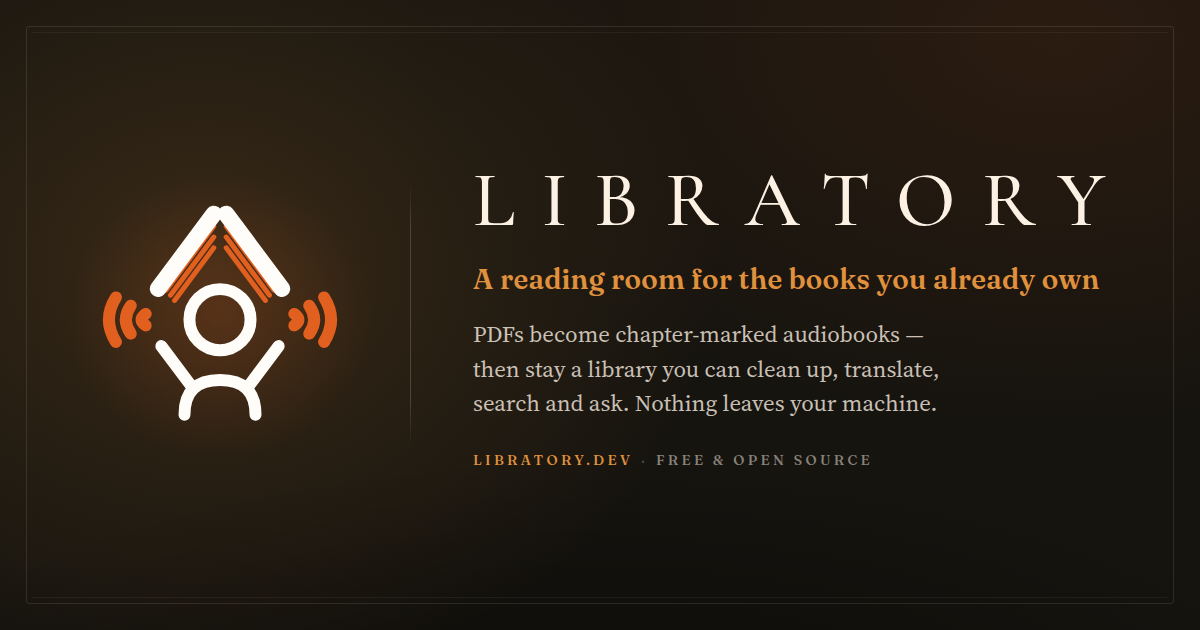
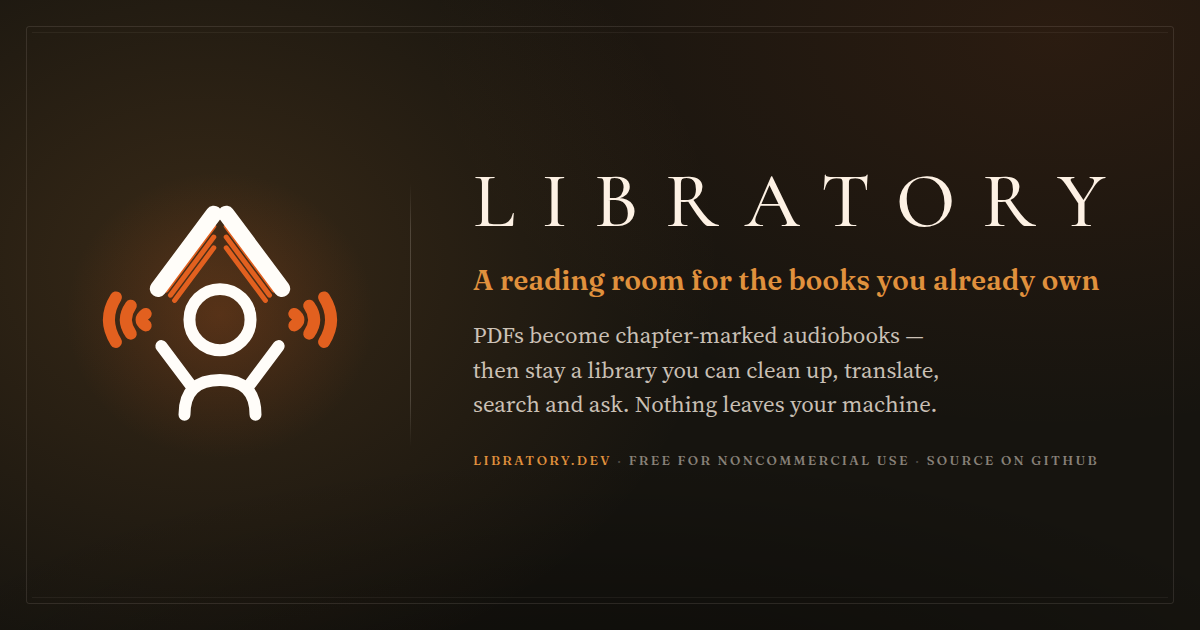
"Open source" was never true of a PolyForm licence
Libratory is PolyForm Noncommercial 1.0.0. That is source-available, not open source: the OSI
definition requires no restriction on the field of endeavour, and a noncommercial clause is
exactly such a restriction. Claiming the label invites the correction rather than the download,
and the projects on this licence — the ones that keep their goodwill — say what they actually
grant instead.

The page already had the right words on it. The hero reads "Free for noncommercial use · source
on GitHub" and the app's README says the source is public and you may use, modify and share it
for any noncommercial purpose. So the card and the meta descriptions now say the same thing,
rather than a fourth version of it.

The og:description carried "Free and open source" before any of this, so that one is a fix and
not a regression. It also loses about forty characters, which is roughly what Slack and iMessage
were cutting off anyway.

diff --git a/index.html b/index.html
@@ -16,7 +16,7 @@
     <!-- Without an og:image a crawler picks its own, and it picked a YouTube thumbnail -->
     <meta property="og:site_name" content="Libratory" />
     <meta property="og:title" content="Libratory — turn your PDFs into audiobooks, on your own Mac" />
-    <meta property="og:description" content="A reading room for the books you already own. Chapter-marked audiobooks from your PDFs, with AI cleanup, translations, notes and chat over your whole shelf. Free and open source, and nothing leaves your machine." />
+    <meta property="og:description" content="A reading room for the books you already own. Chapter-marked audiobooks from your PDFs, plus cleanup, translations, notes and chat over the whole shelf — all on your own machine. Free for noncommercial use." />
     <meta property="og:type" content="website" />
     <meta property="og:url" content="https://libratory.dev/" />
     <meta property="og:locale" content="en_US" />
@@ -28,7 +28,7 @@
 
     <meta name="twitter:card" content="summary_large_image" />
     <meta name="twitter:title" content="Libratory — turn your PDFs into audiobooks, on your own Mac" />
-    <meta name="twitter:description" content="A reading room for the books you already own. Chapter-marked audiobooks from your PDFs, with AI cleanup, translations, notes and chat over your whole shelf." />
+    <meta name="twitter:description" content="A reading room for the books you already own. Chapter-marked audiobooks from your PDFs, plus cleanup, translations, notes and chat over the whole shelf — all on your own machine. Free for noncommercial use." />
     <meta name="twitter:image" content="https://libratory.dev/og.png" />
     <meta name="twitter:image:alt" content="Libratory — a reading room for the books you already own" />
   </head>

diff --git a/scripts/og.html b/scripts/og.html
@@ -138,13 +138,13 @@
         white-space: nowrap;
         font-family: "Fraunces", Georgia, serif;
         font-weight: 500;
-        font-size: 14px;
+        font-size: 13px;
         text-transform: uppercase;
-        letter-spacing: 0.24em;
+        letter-spacing: 0.18em;
         color: rgb(253 241 228 / 50%);
       }
       .meta b { font-weight: 500; color: #e0913d; }
-      .meta i { font-style: normal; padding: 0 0.55em; color: rgb(253 241 228 / 26%); }
+      .meta i { font-style: normal; padding: 0 0.42em; color: rgb(253 241 228 / 26%); }
     </style>
   </head>
   <body>
@@ -184,7 +184,7 @@
             translate, search and ask. Nothing leaves your machine.
           </p>
           <p class="meta">
-            <b>libratory.dev</b><i>·</i>Free &amp; open source
+            <b>libratory.dev</b><i>·</i>Free for noncommercial use<i>·</i>Source on GitHub
           </p>
         </div>
       </div>
